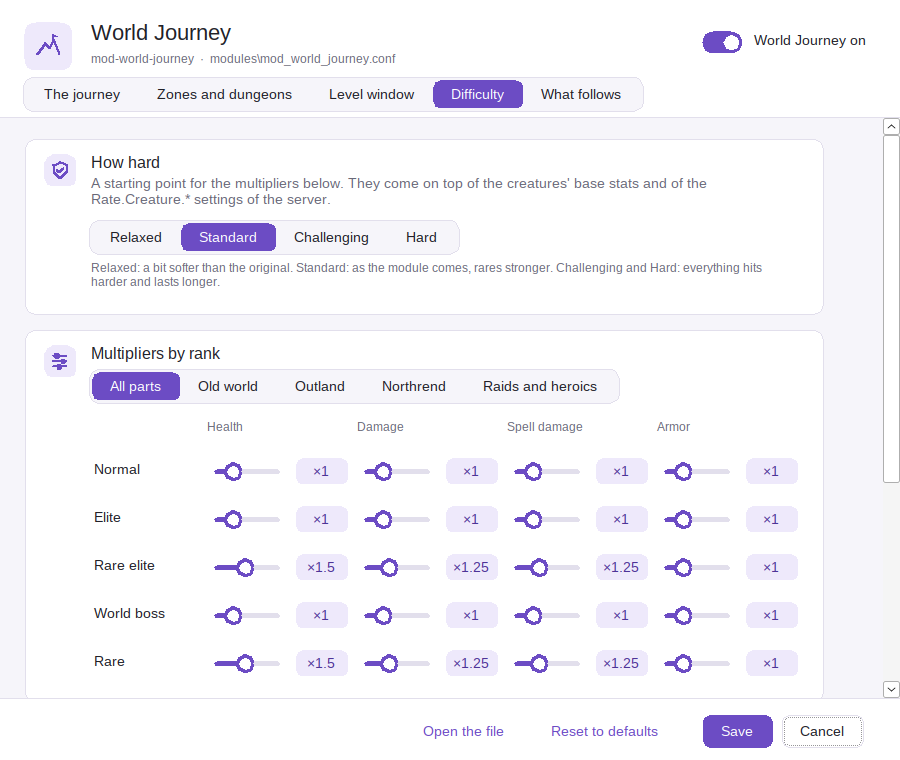
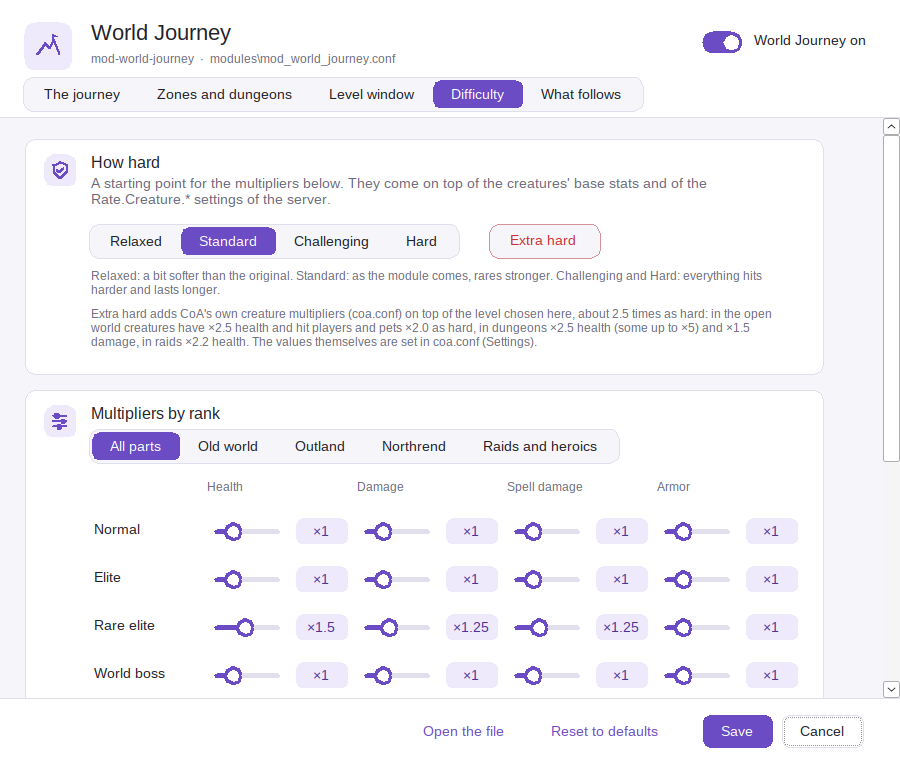
World Journey setup: Extra hard switches CoA's own creature multipliers on (0.7.3-preview)

diff --git a/src/SetupPages.cs b/src/SetupPages.cs
@@ -18,6 +18,7 @@ namespace CoAInstaller
     {
         protected readonly Install inst;
         protected readonly ConfigFile conf;
+        readonly List<ConfigFile> also = new List<ConfigFile>();     // other files a page writes a few options of
         readonly Segmented tabs = new Segmented();
         readonly Panel scroller = new Panel { Dock = DockStyle.Fill, AutoScroll = true, BackColor = Ui.Canvas };
         readonly FlowLayoutPanel shown = Ui.Column();
@@ -77,7 +78,7 @@ namespace CoAInstaller
             tabs.SelectedChanged += (s, e) => ShowPage(tabs.Selected);
             FormClosing += (s, e) =>
             {
-                if (DialogResult == DialogResult.OK || (conf.Pending.Count == 0 && conf.Removed.Count == 0)) return;
+                if (DialogResult == DialogResult.OK || Unsaved() == 0) return;
                 var answer = MessageBox.Show(this, "Save your changes before closing?", Product.Name, MessageBoxButtons.YesNoCancel, MessageBoxIcon.Question);
                 if (answer == DialogResult.Cancel) e.Cancel = true;
                 else if (answer == DialogResult.Yes && !Save()) e.Cancel = true;
@@ -129,7 +130,18 @@ namespace CoAInstaller
 
         // ---------------------------------------------------------------- values
 
-        protected string Raw(string key, string fallback)
+        /// <summary>Another config file this page writes options of; saved together with the module's.</summary>
+        protected ConfigFile AlsoEdit(string path, string name)
+        {
+            var f = ConfigFile.Load(path, name);
+            also.Add(f);
+            return f;
+        }
+
+        int Unsaved() { return new[] { conf }.Concat(also).Sum(f => f.Pending.Count + f.Removed.Count); }
+
+        protected string Raw(string key, string fallback) { return RawIn(conf, key, fallback); }
+        protected string RawIn(ConfigFile conf, string key, string fallback)
         {
             string v;
             if (conf.Pending.TryGetValue(key, out v)) return ConfigOption.Unquote(v);
@@ -153,7 +165,8 @@ namespace CoAInstaller
         protected bool Flag(string key, bool fallback) { string v = Raw(key, fallback ? "1" : "0"); return v == "1" || v.Equals("true", StringComparison.OrdinalIgnoreCase); }
         protected string DefaultOf(string key, string fallback) { ConfigOption o; return conf.ByKey.TryGetValue(key, out o) && o.DefaultRaw != null ? ConfigOption.Unquote(o.DefaultRaw) : fallback; }
 
-        protected void Set(string key, string value)
+        protected void Set(string key, string value) { SetIn(conf, key, value); }
+        protected void SetIn(ConfigFile conf, string key, string value)
         {
             if (loading > 0) return;
             ConfigOption o;
@@ -177,7 +190,7 @@ namespace CoAInstaller
 
         protected virtual void Changed()
         {
-            int n = conf.Pending.Count + conf.Removed.Count;
+            int n = Unsaved();
             changes.Text = n == 0 ? "" : n == 1 ? "1 change not saved yet" : n + " changes not saved yet";
             changes.ForeColor = n == 0 ? Ui.Muted : Ui.Warn;
             foreach (var r in refreshers) r();
@@ -203,11 +216,13 @@ namespace CoAInstaller
 
         bool Save()
         {
-            try { conf.Save(); }
+            var written = new[] { conf }.Concat(also).Where(f => f.Pending.Count + f.Removed.Count > 0).Select(f => f.Name).ToList();
+            if (written.Count == 0) written.Add(conf.Name);
+            try { conf.Save(); foreach (var f in also) f.Save(); }
             catch (Exception ex) { Ui.Error(this, "The settings could not be saved:\n" + ex.Message); return false; }
             Changed();
             DialogResult = DialogResult.OK;
-            MessageBox.Show(this, "Saved in " + conf.Name + ".\n\nThe changes take effect when the worldserver is started the next time (Restart server).", Product.Name, MessageBoxButtons.OK, MessageBoxIcon.Information);
+            MessageBox.Show(this, "Saved in " + string.Join(" and ", written) + ".\n\nThe changes take effect when the worldserver is started the next time (Restart server).", Product.Name, MessageBoxButtons.OK, MessageBoxIcon.Information);
             Close();
             return true;
         }
@@ -509,6 +524,9 @@ namespace CoAInstaller
         readonly Toggle partOwn = new Toggle("Own values for this part of the world");
         readonly Slider[,] diff = new Slider[5, 4];
         readonly Segmented preset = new Segmented("Relaxed", "Standard", "Challenging", "Hard");
+        readonly PillToggle extraHard = new PillToggle("Extra hard") { BackColor = Ui.Surface };
+        ConfigFile coa;
+        const string CoaSwitch = "CoA.CreatureScaling.Enable";
 
         public JourneySetup(Install i) : base(i, "mod_world_journey.conf", "World Journey", "mod-world-journey  ·  modules\\mod_world_journey.conf", "journey", "Journey.Enable", "World Journey on")
         {
@@ -572,9 +590,29 @@ namespace CoAInstaller
             // ---- difficulty
             Tab("Difficulty");
             var presets = Card("How hard", "A starting point for the multipliers below. They come on top of the creatures' base stats and of the Rate.Creature.* settings of the server.", "gamemaster");
-            presets.Add(preset);
+            var howHard = Ui.Row(); howHard.BackColor = Ui.Surface;
+            howHard.Controls.Add(preset);
+            extraHard.Margin = new Padding(28, 4, 0, 6);
+            howHard.Controls.Add(extraHard);
+            presets.Add(howHard);
             presets.Add(Small("Relaxed: a bit softer than the original. Standard: as the module comes, rares stronger. Challenging and Hard: everything hits harder and lasts longer.", presets.Inner));
+            var extraText = presets.Add(Small("", presets.Inner));
             preset.SelectedChanged += (s, e) => ApplyPreset(preset.Selected);
+            coa = AlsoEdit(inst.CoaConf, "modules\\coa.conf");
+            bool coaHasIt = coa.ByKey.ContainsKey(CoaSwitch);
+            extraHard.Enabled = coaHasIt;
+            extraHard.CheckedChanged += (s, e) => SetIn(coa, CoaSwitch, extraHard.Checked ? "1" : "0");
+            AddLoader(() => extraHard.Checked = coaHasIt && RawIn(coa, CoaSwitch, "0") == "1");
+            OnChange(() =>
+            {
+                if (!coaHasIt) { extraText.Text = "Extra hard needs a CoA core from October 2026 or later, which has creature multipliers of its own. Update the server to use it."; return; }
+                Func<string, string, string> x = (key, fallback) => "×" + RawIn(coa, "CoA.CreatureScaling." + key, fallback);
+                extraText.Text = "Extra hard adds CoA's own creature multipliers (coa.conf) on top of the level chosen here, about 2.5 times as hard: " +
+                    "in the open world creatures have " + x("World.Health", "2.5") + " health and hit players and pets " + x("World.Damage", "2.0") + " as hard, " +
+                    "in dungeons " + x("Dungeon.Health", "2.5") + " health (some up to ×5) and " + x("Dungeon.Damage", "1.5") + " damage, in raids " +
+                    x("Raid.Health", "2.2") + " health. The values themselves are set in coa.conf (Settings).";
+                extraText.ForeColor = extraHard.Checked ? Ui.Bad : Ui.Muted;
+            });
 
             var grid = Card("Multipliers by rank", null, "settings");
             grid.Add(diffPart);
@@ -807,6 +845,7 @@ namespace CoAInstaller
             foreach (var p in places) Unset(Key(p));
             for (int part = 0; part < 4; part++) for (int r = 0; r < 5; r++) for (int c = 0; c < 4; c++) Unset(DiffKey(part, r, c));
             foreach (var part in Parts) Unset("Journey.Quests.XpRate." + part);
+            if (coa != null && coa.ByKey.ContainsKey(CoaSwitch)) SetIn(coa, CoaSwitch, "0");     // the journey's own difficulty only
         }
     }
 

diff --git a/src/Controls.cs b/src/Controls.cs
@@ -279,6 +279,38 @@ namespace CoAInstaller
         }
     }
 
+    /// <summary>A switch drawn as a button that stays pressed: set apart from a choice, for something that comes on top of it.</summary>
+    class PillToggle : CheckBox
+    {
+        public Color OnColor = Ui.Bad;
+        bool hover;
+        public PillToggle(string text)
+        {
+            Text = text;
+            SetStyle(ControlStyles.UserPaint | ControlStyles.AllPaintingInWmPaint | ControlStyles.OptimizedDoubleBuffer | ControlStyles.ResizeRedraw, true);
+            Font = Ui.Bold; AutoSize = false; Cursor = Cursors.Hand;
+            Margin = new Padding(0, 4, 0, 6);
+            Size = new Size(TextRenderer.MeasureText(text, Ui.Bold).Width + 40, 36);
+            CheckedChanged += (s, e) => Invalidate();
+            EnabledChanged += (s, e) => Invalidate();
+            MouseEnter += (s, e) => { hover = true; Invalidate(); };
+            MouseLeave += (s, e) => { hover = false; Invalidate(); };
+        }
+        protected override void OnPaint(PaintEventArgs e)
+        {
+            var g = e.Graphics;
+            g.Clear(Draw.Behind(this) == Color.Empty ? Ui.Surface : Draw.Behind(this));
+            Draw.Smooth(g);
+            var box = new RectangleF(0.5f, 0.5f, Width - 1.5f, Height - 1.5f);
+            Color fill = !Enabled ? Ui.Canvas : Checked ? OnColor : hover ? Draw.Mix(Ui.Canvas, OnColor, 0.12f) : Ui.Canvas;
+            Color edge = !Enabled ? Ui.Line : Checked ? OnColor : Draw.Mix(Ui.Line, OnColor, 0.45f);
+            using (var p = Draw.Round(box, 9)) { using (var b = new SolidBrush(fill)) g.FillPath(b, p); using (var pen = new Pen(edge)) g.DrawPath(pen, p); }
+            Color text = !Enabled ? Ui.Muted : Checked ? Color.White : OnColor;
+            TextRenderer.DrawText(g, Text, Font, Rectangle.Round(box), text, TextFormatFlags.HorizontalCenter | TextFormatFlags.VerticalCenter);
+            if (Focused && ShowFocusCues) using (var p = Draw.Round(new RectangleF(2, 2, Width - 5, Height - 5), 8)) using (var pen = new Pen(Color.FromArgb(140, OnColor))) g.DrawPath(pen, p);
+        }
+    }
+
     /// <summary>A slider for a number between two limits, with its value shown beside it. One or two thumbs.</summary>
     class Slider : Control
     {

diff --git a/src/Core.cs b/src/Core.cs
@@ -23,7 +23,7 @@ namespace CoAInstaller
         public const string Name = "AFK Realm";                   // window titles, dialogs
         public const string ShortName = "AFK Realm";              // desktop shortcut, firewall rules
         public const string FileStem = "AFK-Realm";                // exe name, settings folder
-        public const string Version = "0.7.2-preview";            // pre-release until testers confirm it works
+        public const string Version = "0.7.3-preview";            // pre-release until testers confirm it works
         public const string Tagline = "build, run and tweak your own server the lazy way";
         public const string BuildsFor = "Conquest of AzerothCore";
         public const string WindowTitle = Name + " (preview)";

diff --git a/README.md b/README.md
@@ -39,7 +39,7 @@ Pre-built repacks go stale quickly. Building from source keeps you on the latest
 - **Game master tools**: a line to the running server (its SOAP service, switched on for this PC only) with a quest helper – see a character's quest log with the progress of every objective, find quests by NPC name, quest title or id, or list the new quests around a character, then give, complete, reward or remove them with one click – plus unstuck, revive, level, rename, gold and mail for a character, announcements, and a console for every other GM command
 - **Database editor**: browse and edit every table of the server and run any SQL without a separate program, import SQL files (it says what a file will do before it runs) and export tables or whole databases by ticking them – read-only until you allow changes, with a clear warning, a one-click backup of the whole server and an "Undo last change" button for edits, SQL statements and imports
 - **Modules**: modules made for this server at the top ("Modules by AFK Realm": the bots use the auction house like players; World Journey makes the old world, Outland and Northrend one journey from 1 to 60), then the AzerothCore module catalog: browse it, tick modules to install them and untick them to remove them. Before installing, each module is checked (database changes, settings, core patches, client files, age) and its README is one click away. The server is backed up and rebuilt; if a module does not compile, it is taken out again and the server stays as it was. The database changes of every module installed this way are recorded, so removing it undoes them
-- **Setup pages for the modules by AFK Realm**: World Journey and the auction house bots each get a page of their own with sliders, switches and previews (where each part of the world begins, every zone with its level, the level window, difficulty presets; trips, prices, crafting, chat and the Trading Post of the bots) – shown only when the module is installed, and writing the same .conf file you can still edit by hand
+- **Setup pages for the modules by AFK Realm**: World Journey and the auction house bots each get a page of their own with sliders, switches and previews (where each part of the world begins, every zone with its level, the level window, difficulty presets with an "Extra hard" switch for CoA's own creature multipliers; trips, prices, crafting, chat and the Trading Post of the bots) – shown only when the module is installed, and writing the same .conf file you can still edit by hand
 - **Game client add-ons**: add-ons that modules bring for the game are put into your game folder (and the game's cache cleared when a module needs it), kept up to date and taken out with their module; "Export as ZIP" packs them for other players
 - **Bot reset**: one click deletes all random bots with their characters, guilds and arena teams (your own characters are kept); new bots are created at the next start
 - **Map data**: extracts maps, vmaps, mmaps and the CoA client DBC tables from your game client with one click

diff --git a/docs/MANUAL.md b/docs/MANUAL.md
@@ -344,7 +344,8 @@ When *World Journey* or the *auction house bots* are installed, **Modules** show
   ![Zones and dungeons](screenshots/27-world-journey-zones.png)
 
 - **Level window**: how far below and above a character the creatures of a zone stand once they are lifted to it. The bar shows it for a character of the level you choose.
-- **Difficulty**: four presets (*Relaxed, Standard, Challenging, Hard*) and the multipliers for health, damage, spell damage and armor by rank. With a part of the world chosen and **Own values for this part of the world** switched on, that part gets values of its own.
+- **Difficulty**: four presets (*Relaxed, Standard, Challenging, Hard*), **Extra hard** beside them, and the multipliers for health, damage, spell damage and armor by rank. With a part of the world chosen and **Own values for this part of the world** switched on, that part gets values of its own.
+  **Extra hard** switches CoA's own creature multipliers on (`CoA.CreatureScaling.Enable` in `coa.conf`). They come on top of whichever preset is chosen: in the open world creatures have 2.5 times their health and hit players and pets twice as hard, in dungeons 2.5 times the health (some up to 5) and 1.5 times the damage. World Journey switches them off when it is installed; the values themselves are set in `coa.conf` (*Settings*). It needs a CoA core from October 2026 or later; with an older one the button is greyed out.
 
   ![Difficulty](screenshots/26-world-journey-difficulty.png)
 

diff --git a/RELEASE_NOTES.md b/RELEASE_NOTES.md
@@ -1,6 +1,10 @@
-# AFK Realm 0.7.2 – preview
+# AFK Realm 0.7.3 – preview
 
 Build, run and tweak your own Conquest of Azeroth server (AzerothCore fork with Playerbots) on Windows 10/11.
+
+## New in 0.7.3
+
+- **"Extra hard" for World Journey.** Since October 2026 CoA has creature multipliers of its own: in the open world creatures have two and a half times their health and hit twice as hard, in dungeons two and a half times the health and half again the damage. With World Journey they come on top of the journey's own difficulty, and that was far too much for us – so World Journey now switches them off. Who wants that harder world finds an *Extra hard* button on the World Journey setup page (*Modules → Set up World Journey → Difficulty*), right next to *Relaxed, Standard, Challenging, Hard*. The page shows the values CoA uses; they are set in `coa.conf`.
 
 ## New in 0.7.2
 

diff --git a/CHANGELOG.md b/CHANGELOG.md
@@ -1,5 +1,10 @@
 # Changelog
 
+## 0.7.3-preview
+
+- World Journey setup, Difficulty: an "Extra hard" switch next to the presets. It turns CoA's own creature multipliers on (CoA.CreatureScaling.Enable in coa.conf, since October 2026) on top of the chosen level - open world creatures 2.5x health and 2x damage against players and pets, dungeons 2.5x health and 1.5x damage, with the values read from coa.conf. World Journey switches them off by default; "Reset to defaults" does too
+- Setup pages can write options of a second config file and save them together with the module's
+
 ## 0.7.2-preview
 
 - World Journey setup: the switch "Every character plays the scaled world" now says what it does with the question at character creation (it still appears, but "off" no longer counts) instead of pointing to the Destiny Weaver
